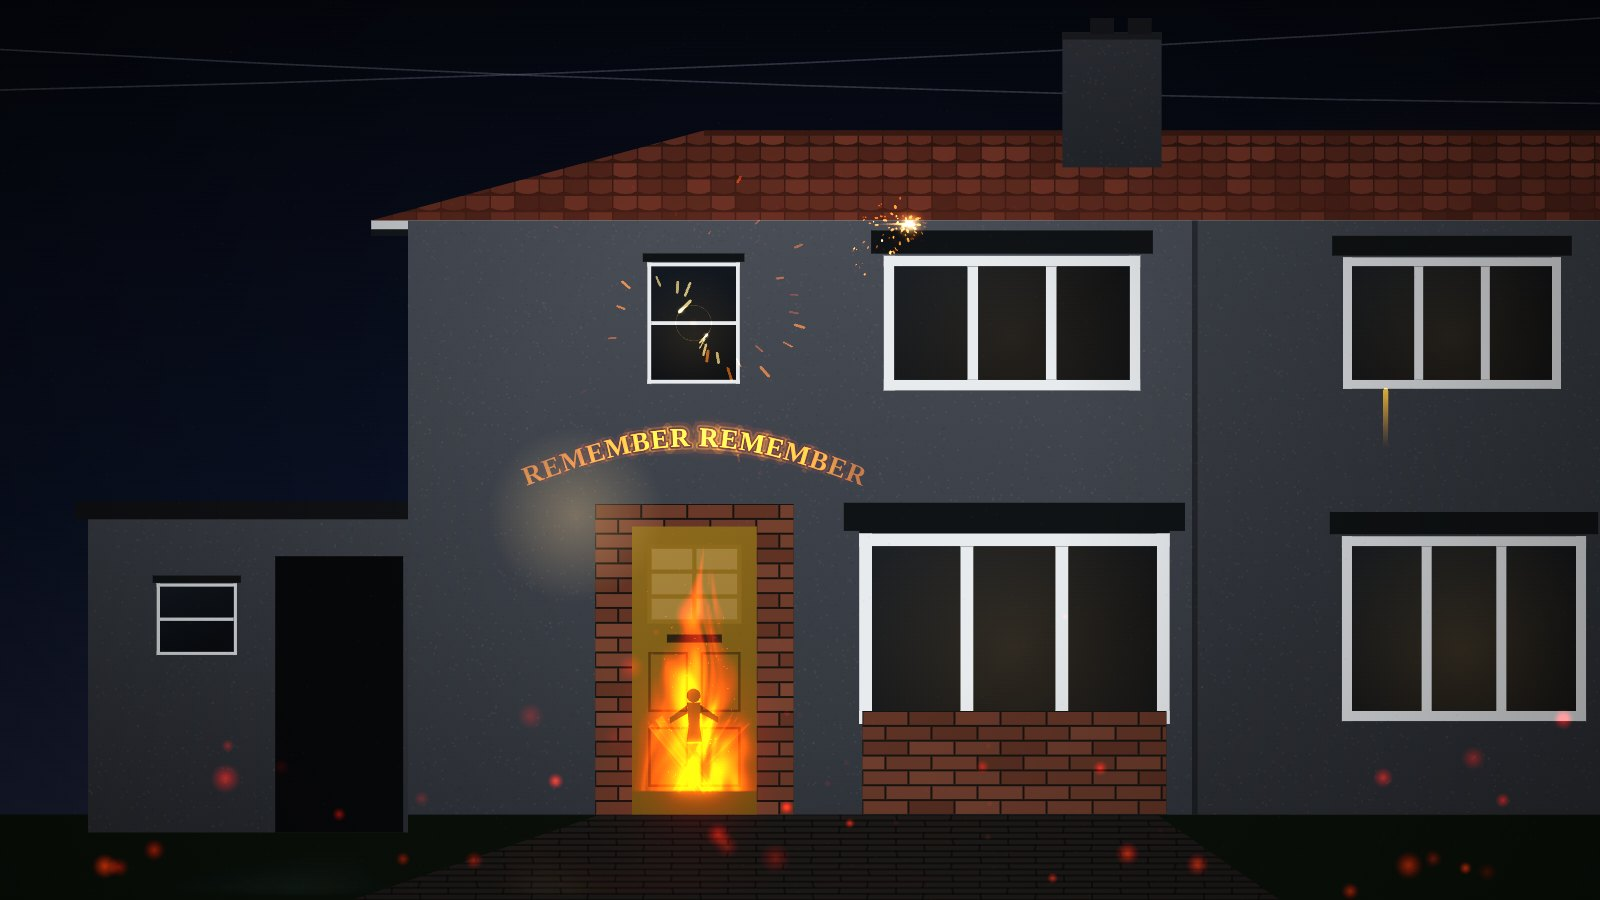
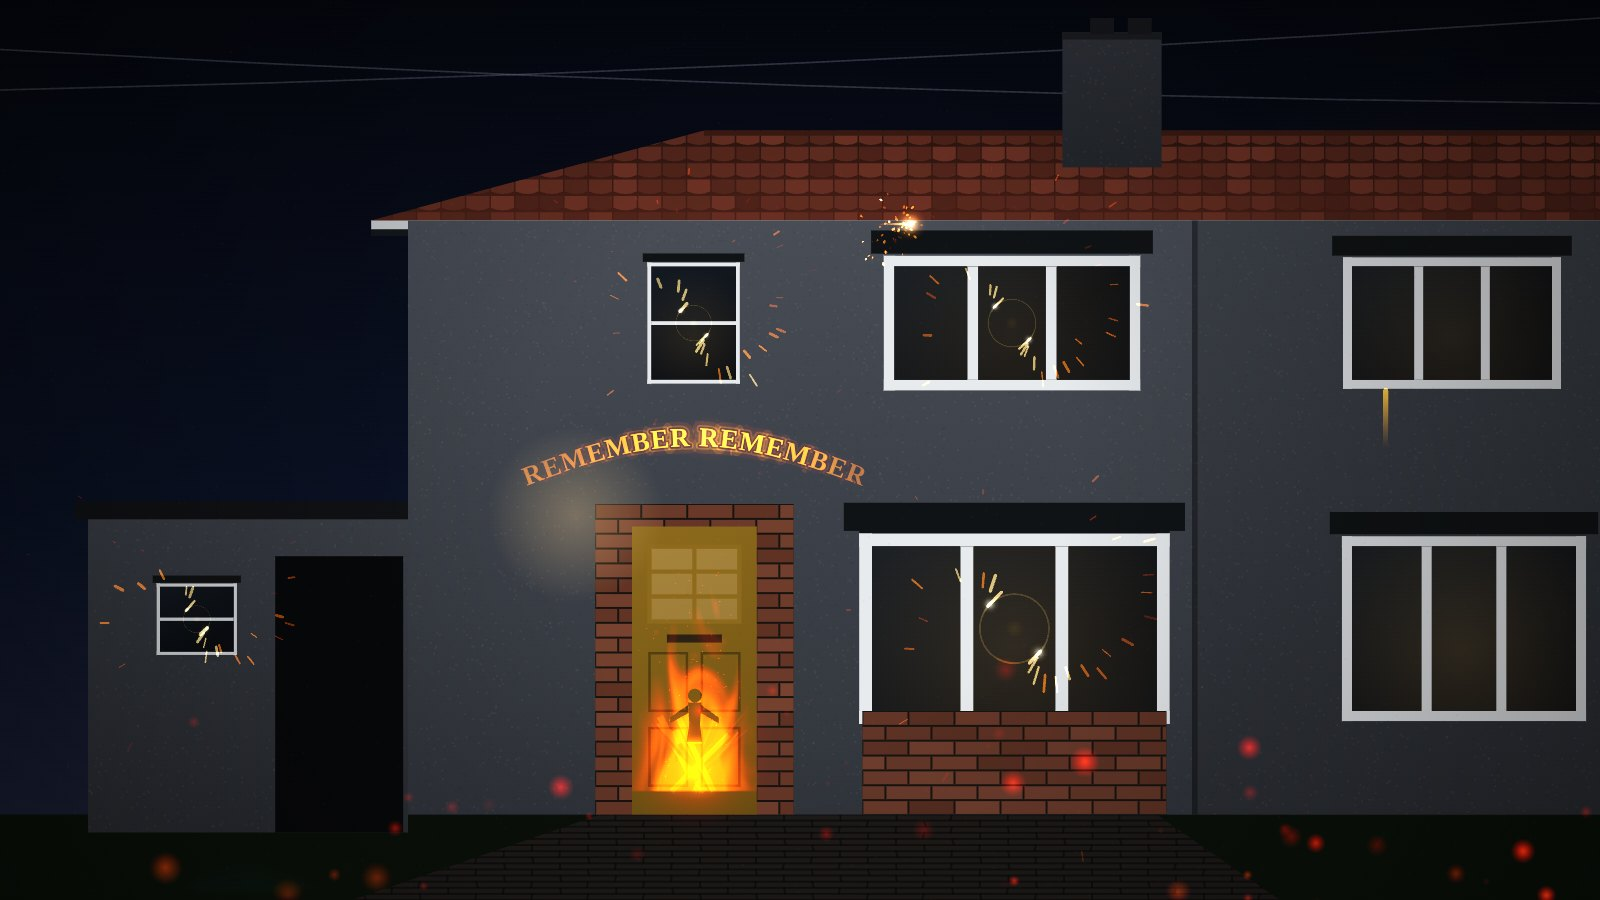
A wheel fired at nine in the evening had already burned out at six
Review findings from the Copilot pass on #11, and one of them was a real fault
in the thing the Bonfire Night demo hangs a key on.

The catherine wheel ran its light-burn-relight cycle off show time. For an
ambient layer that is fine and it is what the looping case wants; for the
one-shot on G — `repeat: 0`, fired from a trigger — it meant the wheel had
burned out in the first nine seconds of the evening and drew nothing for the
rest of the night. It runs off the layer's age now, which is the same number
for a layer that has always been on and the right one for a layer somebody
just switched on. Re-firing it also resets the spin and clears the sparks
still in the air, since a one-shot has no cycles to count. Tested both.

The rest, in descending order of how much they mattered:

- Embers were all born at age zero. The staggered age handed to `spawn` was
  discarded by `spawn` itself, so the first population of a bonfire lifted off
  in one sheet.
- A hologram scrolling *downwards* lost glyphs: a negative index into the
  character list, because `%` in JavaScript keeps the sign of its left operand.
- Rocket Lift and Lasts are independent sliders, and a lift longer than the
  duration gave a shell that rose and never broke. Capped at a third of the run.
- The confetti cannon evaluated horizontal travel from the shot and vertical
  travel from each piece's own launch, so a delayed piece appeared already
  displaced sideways.
[…]

diff --git a/js/effects/builtin/bonfire.js b/js/effects/builtin/bonfire.js
@@ -118,7 +118,17 @@ const bonfire = {
     };
 
     if (state.count !== target) {
-      while (state.embers.length < target) state.embers.push(spawn({ age: rng() * 2 }));
+      while (state.embers.length < target) {
+        /**
+         * Staggered on the first fill, and it has to be done *after* `spawn`
+         * rather than by handing it an age: spawn assigns `age = 0` along with
+         * everything else, so a seeded age passed in was silently discarded and
+         * the whole first population lifted off the fire in one sheet.
+         */
+        const born = spawn({});
+        born.age = rng() * born.life;
+        state.embers.push(born);
+      }
       state.embers.length = target;
       state.count = target;
     }
@@ -401,7 +411,7 @@ const catherineWheel = {
     { key: 'size', type: 'range', label: 'Spark size', default: 3.5, min: 1, max: 20, step: 0.5 },
   ],
   init() {
-    return { sparks: [], angle: 0, lit: 0, cycle: -1 };
+    return { sparks: [], angle: 0, lit: 0, cycle: -1, age: 0, owed: 0 };
   },
   /**
    * Spin, and the sparks that come off it.
@@ -411,7 +421,7 @@ const catherineWheel = {
    * left — so the two have to advance together, one step at a time, in the same
    * order in every tab.
    */
-  step({ p, shape, t, dt, rng, state }) {
+  step({ p, shape, age: layerAge, dt, rng, state }) {
     const { bbox } = shape;
     const R = Math.min(bbox.w, bbox.h) * 0.5 * clamp(p.radius, 0.05, 1);
     if (R < 2) return;
@@ -422,17 +432,36 @@ const catherineWheel = {
      * `repeat` of zero means one burn and then nothing, which is the shape a
      * trigger wants. Anything else loops, which is what an ambient layer wants,
      * and both come out of the same clock rather than out of a state machine.
+     *
+     * The clock is the layer's **age** and not show time, which matters
+     * entirely for the one-shot case: `age` is seconds since the layer was
+     * switched on, so a wheel fired from a trigger at nine in the evening
+     * starts from rest, whereas show time had it burning out three hours
+     * earlier and drawing nothing for the rest of the night. For a layer that
+     * has simply been on since the show started the two are the same number,
+     * so the looping case is unchanged.
      */
     const period = p.repeat > 0 ? p.duration + p.repeat : Infinity;
-    const cycle = period === Infinity ? 0 : Math.floor(t / period);
-    const age = period === Infinity ? t : t - cycle * period;
+    const cycle = period === Infinity ? 0 : Math.floor(layerAge / period);
+    const age = period === Infinity ? layerAge : layerAge - cycle * period;
     const burning = age < p.duration;
 
-    if (state.cycle !== cycle) {
+    /**
+     * A retrigger, which from in here is the age going backwards.
+     *
+     * Necessary on top of the cycle check because a one-shot has no cycles to
+     * count: `repeat` of zero pins `cycle` at zero forever, so firing the same
+     * trigger twice would otherwise pick the wheel up mid-spin with the last
+     * burn's sparks still in the air.
+     */
+    if (state.cycle !== cycle || age < (state.age ?? 0)) {
       state.cycle = cycle;
       state.angle = 0;
       state.lit = 0;
+      state.owed = 0;
+      state.sparks.length = 0;
     }
+    state.age = age;
 
     // Thrust builds as the fuse takes hold, and the last fifth is the wheel
     // running down: a firework that stops dead reads as a video ending.

diff --git a/js/effects/builtin/bursts.js b/js/effects/builtin/bursts.js
@@ -399,14 +399,25 @@ const rocket = {
 
     /* --- Lift --- */
 
+    /**
+     * The climb, capped so it always leaves room for the break.
+     *
+     * Lift and Lasts are independent sliders and nothing stops the first
+     * exceeding the second — at which point the shell is still rising when its
+     * time runs out, and the effect draws a trail going up and nothing else.
+     * That is not a shell that failed to burst, it is a shell that looks
+     * broken, so the lift gets at most a third of the run.
+     */
+    const lift = Math.min(p.lift, p.duration * 0.34);
+
     // Decelerating all the way up, because it is: the motor burns for a moment
     // and the rest of the climb is coasting against gravity. A shell that rises
     // at a constant speed reads as a bubble going up a tube.
-    const climb = clamp(age / p.lift, 0, 1);
+    const climb = clamp(age / lift, 0, 1);
     const eased = 1 - (1 - climb) ** 2;
-    const apex = { x: from.x + p.drift * p.lift * eased, y: from.y - p.height * eased };
+    const apex = { x: from.x + p.drift * lift * eased, y: from.y - p.height * eased };
 
-    if (age < p.lift) {
+    if (age < lift) {
       const grad = g.createLinearGradient(from.x, apex.y + 90, apex.x, apex.y);
       grad.addColorStop(0, rgba(blackbodyCss(1400), 0));
       grad.addColorStop(1, rgba(blackbodyCss(2600), 0.9));
@@ -423,8 +434,8 @@ const rocket = {
 
     /* --- Break --- */
 
-    const burst = age - p.lift;
-    const span = Math.max(0.2, p.duration - p.lift);
+    const burst = age - lift;
+    const span = Math.max(0.2, p.duration - lift);
     const f = clamp(burst / span, 0, 1);
     const stars = Math.round(clamp(p.stars, 8, 400));
 
@@ -537,8 +548,16 @@ const confettiCannon = {
     const aim = (p.aim * Math.PI) / 180;
     const k = Math.max(0.05, p.drag);
     const terminal = p.gravity / k;
-    // How far a body launched at v0 has travelled by now, with drag ~ -k v.
-    const travel = (v0) => (v0 / k) * (1 - Math.exp(-k * age));
+    /**
+     * How far a body launched at v0 has travelled in `elapsed`, with drag ~ -k v.
+     *
+     * `elapsed` is a parameter rather than the enclosing `age` because the
+     * pieces leave the barrel staggered: closing over `age` made the horizontal
+     * position count from the shot and the vertical one from the piece's own
+     * launch, so a delayed piece appeared already displaced sideways — very
+     * visible at the muzzle speeds the presets use.
+     */
+    const travel = (v0, elapsed) => (v0 / k) * (1 - Math.exp(-k * elapsed));
 
     g.save();
     for (let i = 0; i < Math.round(clamp(p.count, 10, 600)); i++) {
@@ -553,9 +572,9 @@ const confettiCannon = {
       const life = age - delay;
       if (life <= 0) continue;
 
-      const x = bbox.cx + travel(Math.cos(a) * v);
+      const x = bbox.cx + travel(Math.cos(a) * v, life);
       // Vertical is the same decay plus the terminal fall it settles into.
-      const y = bbox.cy + travel(Math.sin(a) * v) + terminal * (life - (1 - Math.exp(-k * life)) / k);
+      const y = bbox.cy + travel(Math.sin(a) * v, life) + terminal * (life - (1 - Math.exp(-k * life)) / k);
 
       const turn = spin + rate * p.tumble * life * 4;
       const facing = Math.cos(turn);

diff --git a/js/effects/builtin/cyberpunk.js b/js/effects/builtin/cyberpunk.js
@@ -406,7 +406,14 @@ const hologram = {
       const rate = 0.6 + ((c * 37) % 11) / 11;
       for (let r = -1; r < rows; r++) {
         const y = bbox.y + frac((r * step + scroll * rate) / (rows * step)) * (rows * step) - step;
-        const ch = chars[(r + c * 3 + Math.floor(scroll / (step * 4))) % chars.length];
+        /**
+         * Wrapped the long way round, because `%` in JavaScript keeps the sign
+         * of its left operand: scrolling *downwards* makes the index negative,
+         * `chars[-1]` is undefined, and the panel silently loses glyphs rather
+         * than showing the same lettering running backwards.
+         */
+        const slot = r + c * 3 + Math.floor(scroll / (step * 4));
+        const ch = chars[((slot % chars.length) + chars.length) % chars.length];
         if (!ch || !ch.trim()) continue;
 
         /**
@@ -451,9 +458,13 @@ const hologram = {
      * lettering scrolls *behind* a fixed comb, which is what your eye reads as
      * "this is being displayed on something" rather than "this is painted on".
      */
-    if (p.scanlines > 0) {
+    if (p.scanlines > 0 && level > 0) {
       g.globalCompositeOperation = 'source-over';
-      g.fillStyle = rgba('#000000', 0.35);
+      // Scaled by Brightness like everything else here. These are the one part
+      // of the effect that *subtracts*, so at zero they have to go: a layer
+      // turned down to nothing that still paints black bands across the
+      // brickwork is not off, it is a mask.
+      g.fillStyle = rgba('#000000', 0.35 * Math.min(1, level));
       const gap = Math.max(2, p.scanlines);
       for (let y = bbox.y; y < bbox.y + bbox.h; y += gap * 2) {
         g.fillRect(bbox.x, y, bbox.w, gap);

diff --git a/js/effects/builtin/celebrations.js b/js/effects/builtin/celebrations.js
@@ -242,7 +242,15 @@ const cake = {
   },
 };
 
-/** Smoke off a candle that has just gone out. Two seconds of curl, then air. */
+/**
+ * Smoke off a candle that is out.
+ *
+ * Drawn for as long as it is unlit rather than for a couple of seconds after
+ * the moment it went out, and that is a deliberate trade: knowing when it went
+ * out means remembering, remembering means fixed-rate state, and this effect is
+ * otherwise a pure function of show time that any tab can join halfway through.
+ * A wisp that persists is a candle that is still smoking; it costs one stroke.
+ */
 function drawWisp(g, x, top, candleH, bbox, t, i, noise) {
   const h = candleH * 1.6;
   g.save();
@@ -833,7 +841,11 @@ const meteors = {
       const hy = ry + dirY * headAt;
 
       if (age <= flight && bright > 0.01) {
-        const tail = Math.min(headAt - from, span * 0.45) + reach * 0.02;
+        // Never longer than the distance actually travelled: the fixed padding
+        // that softens the tail used to be added *after* the clamp, so a meteor
+        // caught in its first frames had a streak reaching back past where it
+        // appeared and, with the radiant in frame, straight through it.
+        const tail = Math.min(headAt - from, span * 0.45 + reach * 0.02);
         const tx = hx - dirX * tail;
         const ty = hy - dirY * tail;
         const scale = fireball ? 2.4 : 1;

diff --git a/js/control/help.js b/js/control/help.js
@@ -495,7 +495,7 @@ export const HELP_SECTIONS = [
   wired to a USB button.
 </p>
 <p>
-  Each demo house ships with two or three one-shots on <kbd>X</kbd>, <kbd>G</kbd> and <kbd>F</kbd>,
+  Each demo house ships with one to three one-shots on <kbd>X</kbd>, <kbd>G</kbd> and <kbd>F</kbd>,
   chosen to suit the night it is: bats out of the door on Halloween, a rocket over the roof and
   confetti out of the door on New Year's Eve, a catherine wheel and a collapsing log on Bonfire
   Night. Each is a bypassed layer, a scene that switches only that layer on, and a key trigger

diff --git a/README.md b/README.md
@@ -132,9 +132,10 @@ the same bloom and colour grade a projector tab uses, generated by
 | [![Night city](docs/assets/demos/cyberpunk.jpg)](https://paperclipmonkey.github.io/facade-mapper/?demo=cyberpunk) | |
 | **[Night city →](https://paperclipmonkey.github.io/facade-mapper/?demo=cyberpunk)** Neon tube round every opening, a Japanese sign on the chimney, a holographic advert over the brickwork, code falling in the windows and rain through the lot. | |
 
-Each demo also wires two or three one-shots to keys — **X**, **G**, **F** — so
+Each demo also wires one to three one-shots to keys — **X**, **G**, **F** — so
 there is something to press: confetti out of the door, a rocket over the roof, a
-wheel going off, the power failing.
+wheel going off, the power failing. Perseid night gets a single one, because
+under a shower the event worth a keypress is one fireball rather than three.
 
 ## Quick start
 
@@ -216,8 +217,12 @@ prints the addresses to use. It has no dependencies; `python3 -m http.server
 Tests are plain Node, no dependencies:
 
 ```bash
-for t in test/*.test.mjs; do node "$t" || break; done
+(for t in test/*.test.mjs; do node "$t" || exit 1; done)
 ```
+
+The subshell is not decoration: without it a failing test would stop the loop
+and still leave `$?` at zero, so a script wrapping this would call a red suite
+green.
 
 And `test/bench.html`, served over HTTP, benchmarks every effect on your own
 hardware.

diff --git a/docs/effects.md b/docs/effects.md
@@ -517,12 +517,13 @@ are for: both are per-draw-call full-layer compositing operations, and a sign
 with twenty glyphs would pay for twenty of them a frame. See
 [performance](performance.md).
 
+This is a starter preset like the rest, with its own demo:
+[night city](https://paperclipmonkey.github.io/facade-mapper/?demo=cyberpunk).
+
 **Where to point it.** A chimney is a tall narrow rectangle standing above the
 roofline, which is the shape and the position of every vertical sign in every
 one of these films — it is the best thing on an ordinary British house for this
-and it is not obvious until you try it. The
-[demo](https://paperclipmonkey.github.io/facade-mapper/?demo=cyberpunk) puts one
-there.
+and it is not obvious until you try it. The demo puts one there.
 
 **Japanese lettering needs a Japanese font.** Current macOS, Windows and Android
 all have one; a bare Linux box may not, and there is no webfont to fall back on
